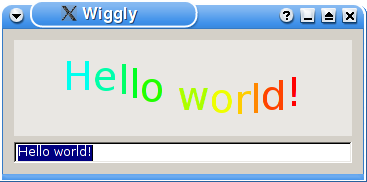
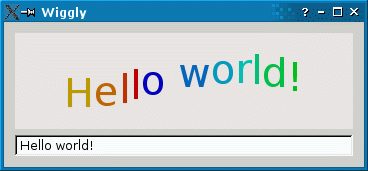
p4i integration Integrate 172934 from 4.0 to main: doc: Review of Wiggly example documentation.
[git-p4: depot-paths = "//depot/qt/main/": change = 172935]

diff --git a/examples/widgets/wiggly/wigglywidget.cpp b/examples/widgets/wiggly/wigglywidget.cpp
@@ -23,13 +23,13 @@ void WigglyWidget::paintEvent(QPaintEvent * /* event */)
 
     QFontMetrics metrics(font());
     int x = (width() - metrics.width(text)) / 2;
-    int y = (height() + metrics.height()) / 2 - metrics.descent();
+    int y = (height() + metrics.ascent() - metrics.descent()) / 2;
     QColor color;
 
     QPainter painter(this);
     for (int i = 0; i < text.size(); ++i) {
         int index = (step + i) % 16;
-        color.setHsv((15 - index) * 16, 255, 255);
+        color.setHsv((15 - index) * 16, 255, 191);
         painter.setPen(color);
         painter.drawText(x, y - ((sineTable[index] * metrics.height()) / 400),
                          QString(text[i]));
@@ -40,7 +40,7 @@ void WigglyWidget::paintEvent(QPaintEvent * /* event */)
 void WigglyWidget::timerEvent(QTimerEvent *event)
 {
     if (event->timerId() == timer.timerId()) {
-        step = (step + 1) % 16;
+        ++step;
         update();
     } else {
 	QWidget::timerEvent(event);
